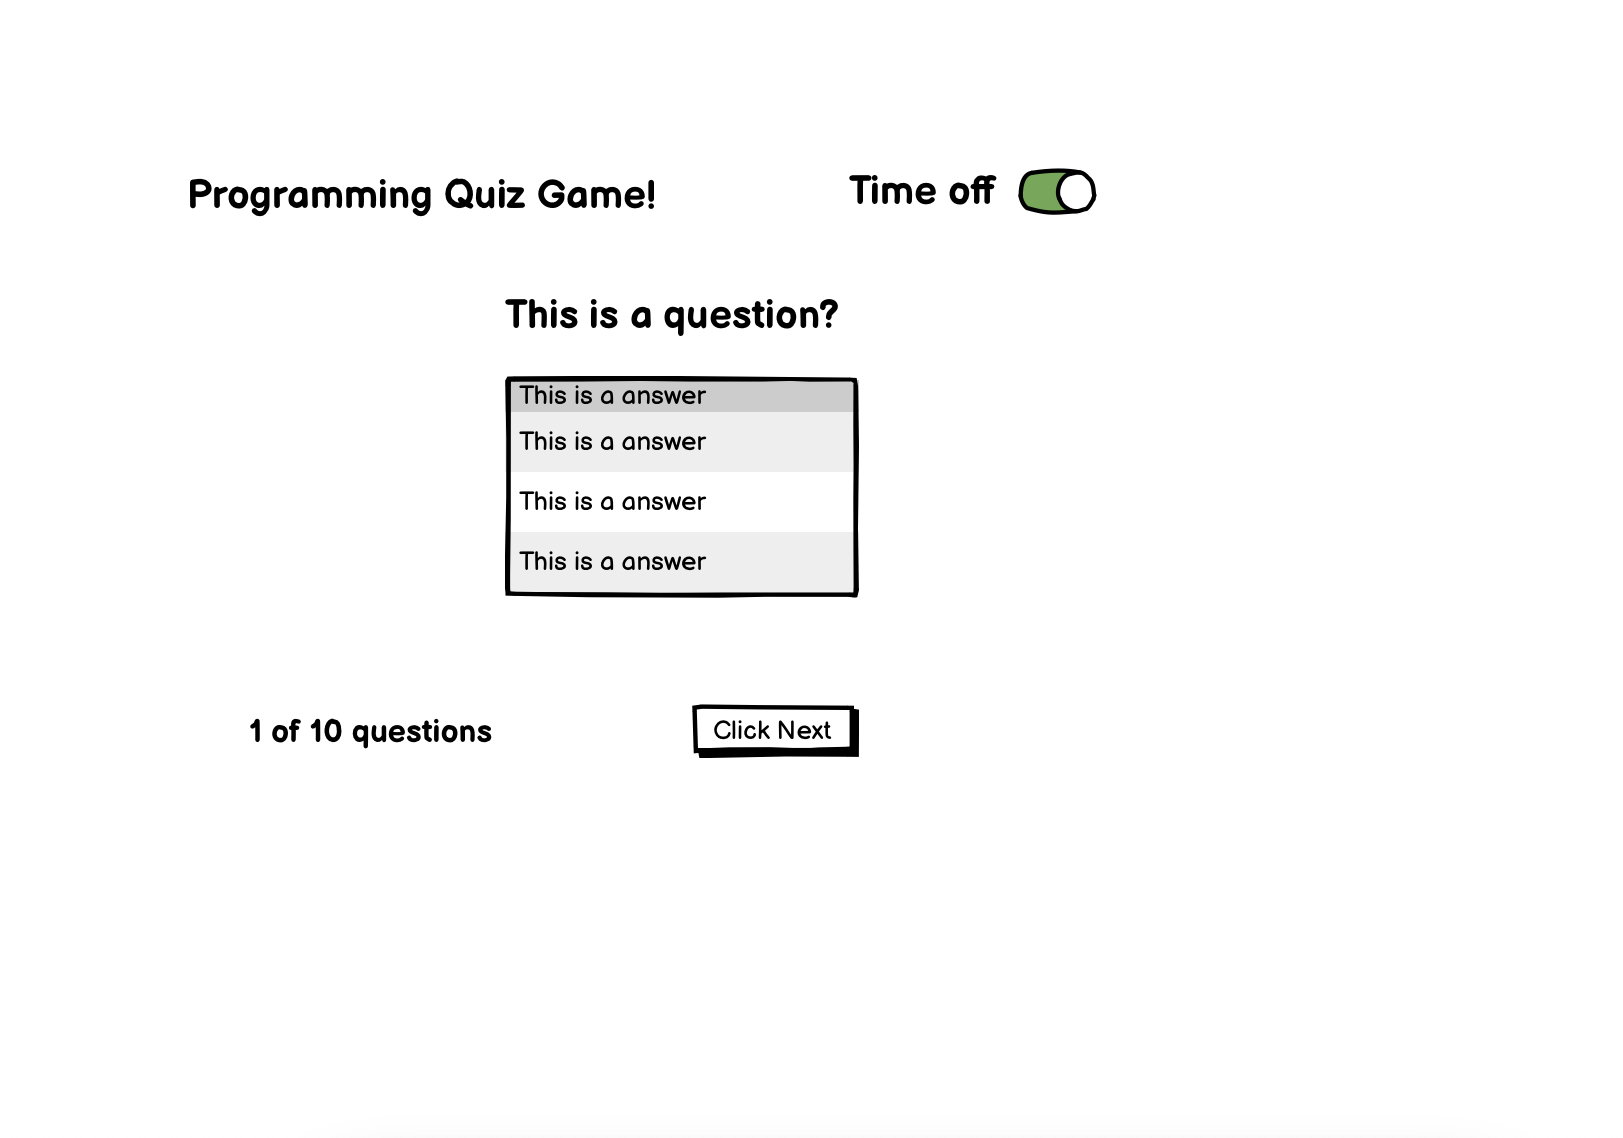
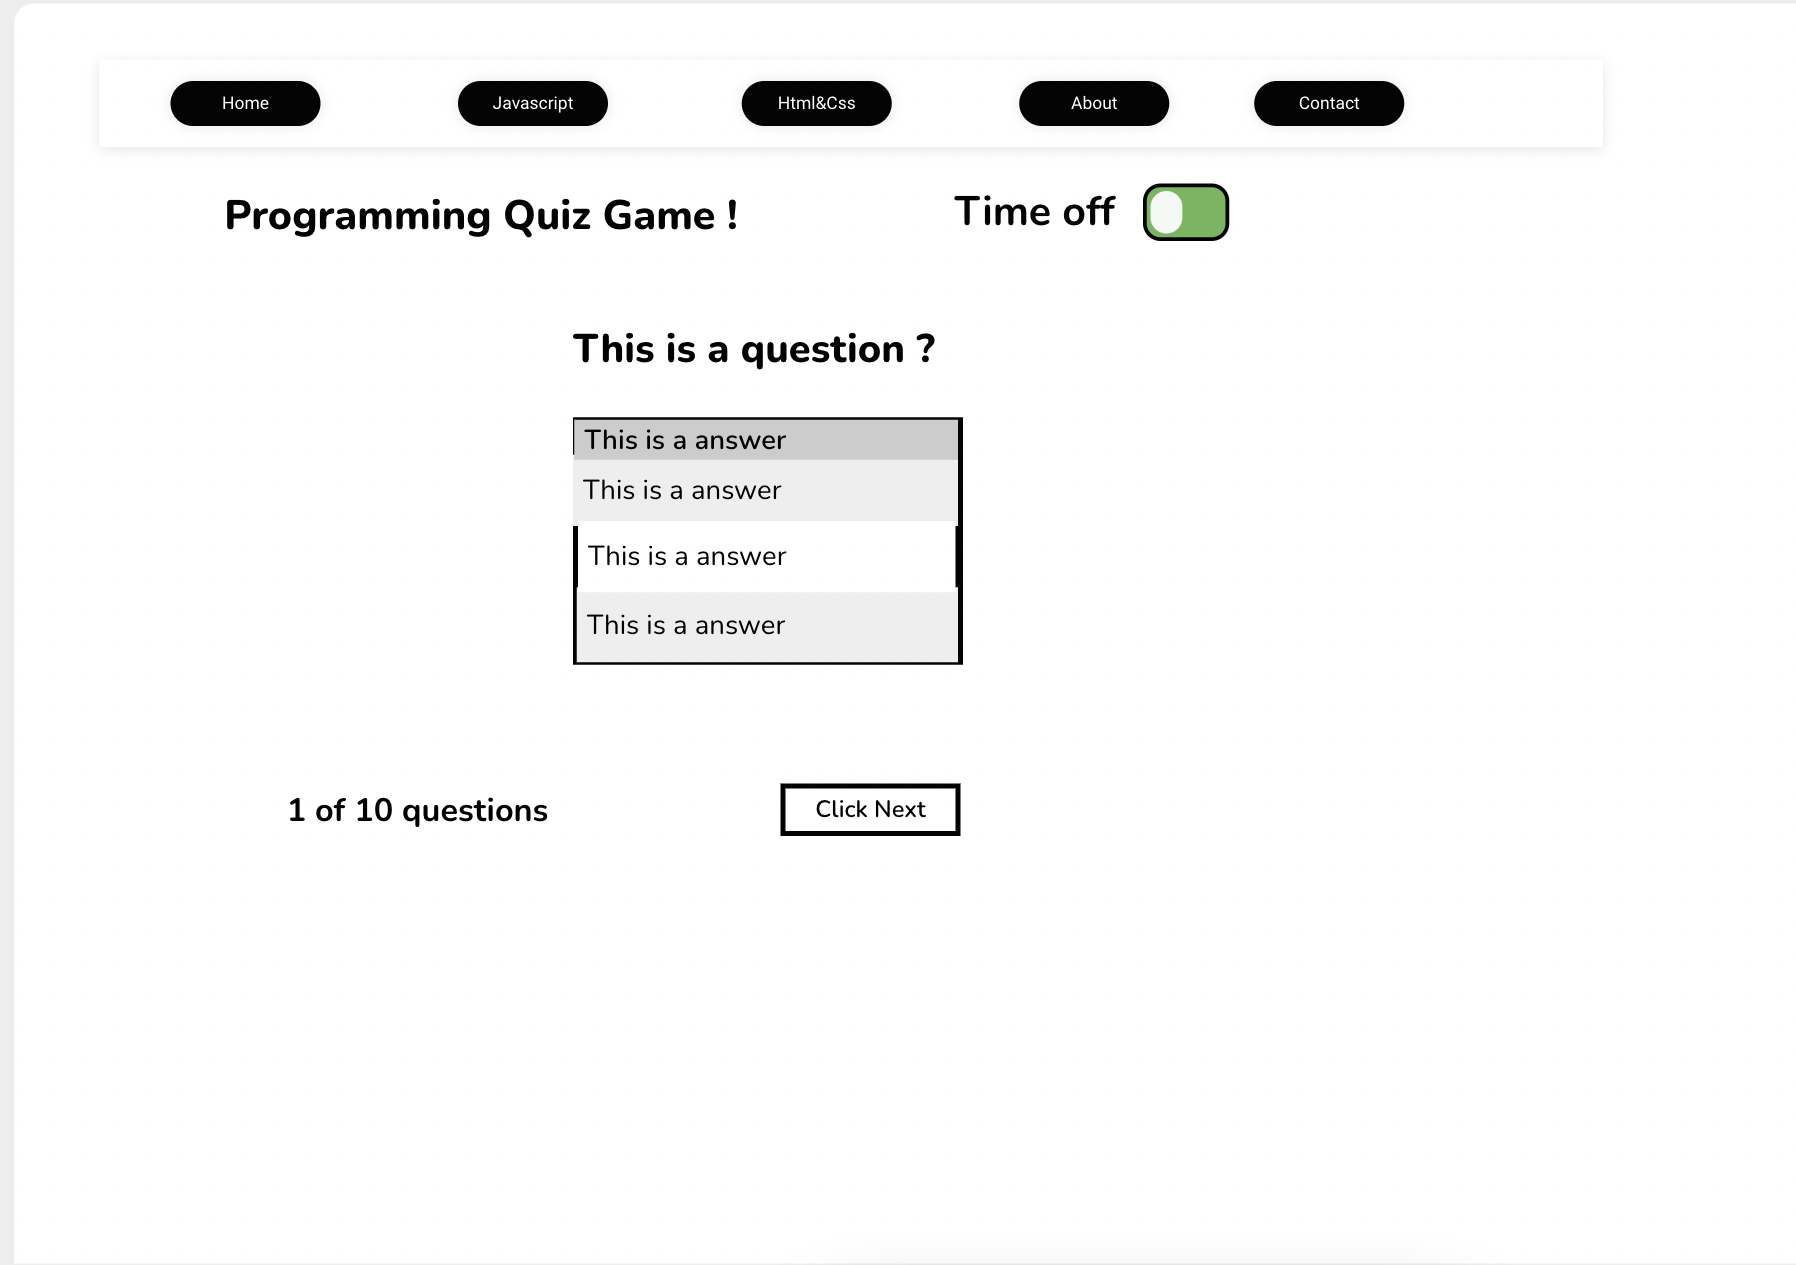
adding wireframes

diff --git a/contact.html b/contact.html
@@ -35,7 +35,7 @@
             <label for="name">Your Name:</label>
             <input type="text" id="name" name="name" required><br><br>
             <label for="email">Your Email:</label>
-            <input type="email" id="email" name="email" pattern="[a-zA-Z0-9._%+-]+@[a-zA-Z0-9.-]+\.[a-zA-Z]{2,}$" required><br><br>
+            <input type="email" id="email" name="email" required><br><br>
             <label for="message">Your Message:</label><br>
             <textarea id="message" name="message" rows="4" cols="50" required></textarea><br><br>
             <button type="button" style="padding: 10px;" onclick="sendContactEmail()">Submit</button>

diff --git a/assets/css/style.css b/assets/css/style.css
@@ -703,7 +703,7 @@ form button:hover {
     }
 }
 
-@media screen and (max-width: 736px){
+/* @media screen and (max-width: 736px){
     .container{
         height: 150%;
     }
@@ -714,7 +714,7 @@ form button:hover {
         height: 150%;
     }
 
-}
+} */
 #successMessage {
     display: none;
     opacity: 0;

diff --git a/README.md b/README.md
@@ -62,6 +62,18 @@ Welcome to the JavaScript and HTML/CSS Fundamentals Quiz! This quiz is designed 
 
 ![Score Crad](assets/images/resultbox.png)
 
+#### About page
+
+- Users are encouraged to explore the quizzes. By mentioning that the quizzes help users learn new concepts, the content invites visitors to interact with the educational materials provided on the site.
+
+![Score Crad](assets/images/aboutpage.png)
+
+#### Contact Page
+ - The page provides clear instructions and feedback to the user. If there are any issues, suggestions, or questions, users are encouraged to reach out. The success message confirms to the user that their message has been successfully submitted.
+
+![Score Crad](assets/images/contactpage.png)
+
+
 ### Colour Scheme
 
 [Website Colour Scheme](assets/images/coolors.png "coolors image")
@@ -166,9 +178,9 @@ All Scripts checked with [JSHint](https://jshint.com/)
 
 | **Sctipt** | **Any Errors?** | **Warnings?** | Other note worthy comments |
 |:----------:|:---------------:|:-------------:|:--------------------------:|
-| script.js | No Errors | 5 Warnings all to do with compatibility | None |
-| jsquestions.js | No Errors | no warnings| None |
-| htmlcssquestions.js | No Errors | no warnings| None |
+| script.js | No Errors | No Warnings  | None |
+| jsquestions.js | No Errors | No Warnings| None |
+| htmlcssquestions.js | No Errors | No Warnings| None |
 
 ### Light House
 
@@ -210,19 +222,23 @@ To fork the depository:
 - [MS Paint](https://apps.microsoft.com/store/detail/paint/9PCFS5B6T72H)
 - [Github Desktop App](https://desktop.github.com/)
 - [ui.dev Am I Responsive](https://ui.dev/amiresponsive)
+- [Wire Frames](https://app.uizard.io/)
 
 ## Wireframes
 ### Start Page
-[Start page wireframe](assets/images/startpagewf.png "view Start Page wire frame")
+[Start page wireframe](assets/images/startwf.png "view Start Page wire frame")
 
 ### Set of Rules
-[Set of Rules wireframe](assets/images/ruleswf.png "view Set of Rules wire frame")
+[Set of Rules wireframe](assets/images/rulewf.png "view Set of Rules wire frame")
+
+### User Information Input
+[Set of Rules wireframe](assets/images/infowf.png "view Set of Rules wire frame")
 
 ### Quiz Box
 [Quiz Box wireframe](assets/images/quizboxwf.png " view Quiz Box wire frame")
 
 ### Score Card
-[Score Card wireframe](assets/images/scorecardwf.png "view Score Card wire frame")
+[Score Card wireframe](assets/images/scorewf.png "view Score Card wire frame")
 
 
 ## Credits
